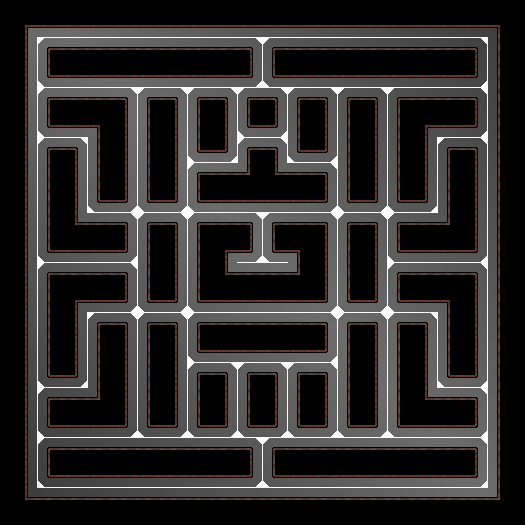
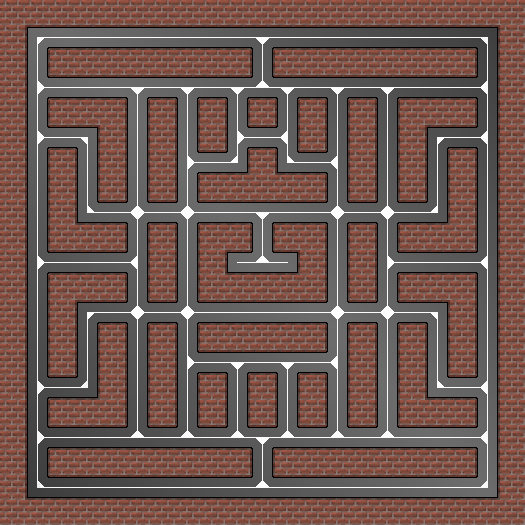
Implementacion completa del menu inicio

diff --git a/src/GUI/SeleccionTematica.java b/src/GUI/SeleccionTematica.java
@@ -41,23 +41,25 @@ public class SeleccionTematica extends JFrame {
 		layeredPane.setBounds(0, 0, 484, 536);
 		contentPane.add(layeredPane);
 		
-		JPanel panelControles = new JPanel();
-		panelControles.setBounds(0, 0, 484, 538);
+		JPanel panelControles = new FondoGUI("/images/GUI/jojofondoAyuda.png");
+		panelControles.setBounds(0, 0, 484, 536);
+		panelControles.setLayout(null);
+		//layeredPane.add(panelControles);
 		
 		
 		
-		
-		JPanel panelTematica = new JPanel();
-		panelTematica.setBounds(0, 0, 484, 538);
+		JPanel panelTematica = new FondoGUI("/images/GUI/jojofondoTematica.png");
+		panelTematica.setBounds(0, 0, 484, 536);
 		panelTematica.setLayout(null);
+		//layeredPane.add(panelTematica);
 		
 		JLabel lblNewLabel = new JLabel("Seleccione la tem\u00E1tica:");
 		lblNewLabel.setFont(new Font("Tahoma", Font.PLAIN, 26));
 		lblNewLabel.setBounds(45, 24, 334, 64);
 		panelTematica.add(lblNewLabel);
 		
-		JPanel panelPrincipal = new JPanel();
-		panelPrincipal.setBounds(0, 0, 484, 538);
+		JPanel panelPrincipal = new FondoGUI("/images/GUI/jojofondo.png");
+		panelPrincipal.setBounds(0, 0, 484, 536);
 		layeredPane.add(panelPrincipal);
 		panelPrincipal.setLayout(null);
 		
@@ -107,7 +109,7 @@ public class SeleccionTematica extends JFrame {
 		
 		
 		JButton btnNewButton = new JButton("Parte 2");
-		btnNewButton.setBounds(74, 140, 67, 23);
+		btnNewButton.setBounds(45, 130, 90, 45);
 		panelTematica.add(btnNewButton);
 		btnNewButton.addActionListener(new ActionListener() {
 			public void actionPerformed(ActionEvent e) {
@@ -121,7 +123,7 @@ public class SeleccionTematica extends JFrame {
 		});
 		
 		JButton btnNewButton_2 = new JButton("Parte 5");
-		btnNewButton_2.setBounds(74, 422, 67, 23);
+		btnNewButton_2.setBounds(45, 411, 90, 45);
 		panelTematica.add(btnNewButton_2);
 		btnNewButton_2.addActionListener(new ActionListener() {
 			public void actionPerformed(ActionEvent e) {
@@ -135,7 +137,7 @@ public class SeleccionTematica extends JFrame {
 		});
 		
 		JButton btnNewButton_1 = new JButton("Parte 3");
-		btnNewButton_1.setBounds(74, 281, 67, 23);
+		btnNewButton_1.setBounds(45, 270, 90, 45);
 		panelTematica.add(btnNewButton_1);
 		btnNewButton_1.addActionListener(new ActionListener() {
 			public void actionPerformed(ActionEvent e) {
@@ -149,6 +151,8 @@ public class SeleccionTematica extends JFrame {
 		});
 		
 		JButton btnNewButton_3 = new JButton("Volver");
+		btnNewButton_3.setFont(new Font("Tahoma", Font.PLAIN, 14));
+		btnNewButton_3.setBounds(192, 482, 100, 25);
 		btnNewButton_3.addActionListener(new ActionListener() {
 			public void actionPerformed(ActionEvent e) {
 				layeredPane.removeAll();
@@ -160,19 +164,40 @@ public class SeleccionTematica extends JFrame {
 		panelControles.add(btnNewButton_3);
 		
 		JLabel lblNivel5 = new JLabel("hola");
-		lblNivel5.setBounds(278, 368, 130, 130);
+		lblNivel5.setBounds(333, 368, 130, 130);
 		fondo = new ImageIcon(new ImageIcon(Toolkit.getDefaultToolkit().getImage(SeleccionTematica.class.getResource("/images/nivel_1/nivel1Parte5.png"))).getImage().getScaledInstance(130,130,Image.SCALE_DEFAULT) );
+		lblNivel5.setIcon(fondo);
 		panelTematica.add(lblNivel5);
 		
 		JLabel lblNivel2 = new JLabel("hola2");
-		lblNivel2.setBounds(278, 86, 130, 130);
+		lblNivel2.setBounds(333, 86, 130, 130);
 		fondo = new ImageIcon(new ImageIcon(Toolkit.getDefaultToolkit().getImage(SeleccionTematica.class.getResource("/images/nivel_1/nivel1Parte2.png"))).getImage().getScaledInstance(130,130,Image.SCALE_DEFAULT) );
+		lblNivel2.setIcon(fondo);
 		panelTematica.add(lblNivel2);
 		
 		JLabel lblNivel3 = new JLabel("hola2");
 		fondo = new ImageIcon(new ImageIcon(Toolkit.getDefaultToolkit().getImage(SeleccionTematica.class.getResource("/images/nivel_1/nivel1Parte3.png"))).getImage().getScaledInstance(130,130,Image.SCALE_DEFAULT) );
-		lblNivel3.setBounds(278, 227, 130, 130);
+		lblNivel3.setIcon(fondo);
+		lblNivel3.setBounds(333, 227, 130, 130);
 		panelTematica.add(lblNivel3);
+		
+		JLabel personajesParte2 = new JLabel("New label");
+		fondo = new ImageIcon(new ImageIcon(Toolkit.getDefaultToolkit().getImage(SeleccionTematica.class.getResource("/images/GUI/personajesParte2.png"))).getImage().getScaledInstance(130,130,Image.SCALE_DEFAULT) );
+		personajesParte2.setIcon(fondo);
+		personajesParte2.setBounds(176, 86, 130, 130);
+		panelTematica.add(personajesParte2);
+		
+		JLabel personajesParte3 = new JLabel("New label");
+		fondo = new ImageIcon(new ImageIcon(Toolkit.getDefaultToolkit().getImage(SeleccionTematica.class.getResource("/images/GUI/personajesParte3.png"))).getImage().getScaledInstance(130,130,Image.SCALE_DEFAULT) );
+		personajesParte3.setIcon(fondo);
+		personajesParte3.setBounds(176, 227, 130, 130);
+		panelTematica.add(personajesParte3);
+		
+		JLabel personajesParte5 = new JLabel("New label");
+		fondo = new ImageIcon(new ImageIcon(Toolkit.getDefaultToolkit().getImage(SeleccionTematica.class.getResource("/images/GUI/personajesParte5.png"))).getImage().getScaledInstance(130,130,Image.SCALE_DEFAULT) );
+		personajesParte5.setIcon(fondo);
+		personajesParte5.setBounds(176, 368, 130, 130);
+		panelTematica.add(personajesParte5);
 		
 		
 		

diff --git a/src/GUI/GUI.java b/src/GUI/GUI.java
@@ -34,7 +34,7 @@ public class GUI extends JFrame {
 	public GUI(Logica logica,String pathMusical) {
 		setDefaultCloseOperation(JFrame.EXIT_ON_CLOSE);
 		setBounds(100, 100, 656, 564);
-		contentPane = new JPanel();
+		contentPane = new FondoJuego("/images/GUI/fondoJuego.png");
 		contentPane.setBackground(Color.BLACK);
 		contentPane.setBorder(new EmptyBorder(5, 5, 5, 5));
 		setContentPane(contentPane);
@@ -50,36 +50,36 @@ public class GUI extends JFrame {
 		JLabel lblPuntaje = new JLabel("Puntaje:");
 		lblPuntaje.setFont(new Font("Tahoma", Font.BOLD, 14));
 		lblPuntaje.setHorizontalAlignment(SwingConstants.CENTER);
-		lblPuntaje.setForeground(Color.WHITE);
+		lblPuntaje.setForeground(Color.BLACK);
 		lblPuntaje.setBounds(535, 29, 79, 14);
 		contentPane.add(lblPuntaje);
 		
 		lblPuntajeNumero = new JLabel("0");
 		lblPuntajeNumero.setFont(new Font("Tahoma", Font.BOLD, 14));
 		lblPuntajeNumero.setHorizontalAlignment(SwingConstants.TRAILING);
-		lblPuntajeNumero.setForeground(Color.WHITE);
+		lblPuntajeNumero.setForeground(Color.BLACK);
 		lblPuntajeNumero.setBounds(568, 54, 46, 14);
 		contentPane.add(lblPuntajeNumero);
 		
 		JLabel lblVidas = new JLabel("Vidas:");
 		lblVidas.setHorizontalAlignment(SwingConstants.CENTER);
 		lblVidas.setFont(new Font("Tahoma", Font.BOLD, 14));
-		lblVidas.setForeground(Color.WHITE);
+		lblVidas.setForeground(Color.BLACK);
 		lblVidas.setBounds(535, 106, 79, 14);
 		contentPane.add(lblVidas);
 		
 		lblVidasNumero = new JLabel("0");
 		lblVidasNumero.setHorizontalAlignment(SwingConstants.TRAILING);
 		lblVidasNumero.setFont(new Font("Tahoma", Font.BOLD, 14));
-		lblVidasNumero.setForeground(Color.WHITE);
+		lblVidasNumero.setForeground(Color.BLACK);
 		lblVidasNumero.setBounds(568, 135, 46, 14);
 		contentPane.add(lblVidasNumero);
 		
 		lblPausa = new JLabel("");
 		lblPausa.setHorizontalAlignment(SwingConstants.TRAILING);
 		lblPausa.setFont(new Font("Tahoma", Font.BOLD, 14));
-		lblPausa.setForeground(Color.WHITE);
-		lblPausa.setBounds(540, 250, 80, 100);
+		lblPausa.setForeground(Color.BLACK);
+		lblPausa.setBounds(550, 250, 80, 100);
 		contentPane.add(lblPausa);
 		
 		File archivo = new File(pathMusical);

diff --git a/src/GUI/FondoJuego.java b/src/GUI/FondoJuego.java
@@ -1,0 +1,31 @@
+package GUI;
+
+import java.awt.Graphics;
+import java.awt.Image;
+
+import javax.swing.ImageIcon;
+import javax.swing.JPanel;
+
+public class FondoJuego extends JPanel {
+	/**
+	 * 
+	 */
+	private static final long serialVersionUID = 1L;
+	private Image fondo;
+	private String direccion;
+	
+	public FondoJuego(String direccion) {
+		this.direccion = direccion;
+	}
+	
+	public void paint(Graphics g) {
+		fondo = new ImageIcon(GUI.class.getResource(direccion)).getImage();
+		g.drawImage(fondo, -16, 0, 656, 564, this); 
+		setOpaque(false);
+		super.paint(g);
+	}
+	
+	public void setFondo(String direccion) {
+		this.direccion = direccion;
+	}
+}

diff --git a/src/GUI/FondoGUI.java b/src/GUI/FondoGUI.java
@@ -1,0 +1,31 @@
+package GUI;
+
+import java.awt.Graphics;
+import java.awt.Image;
+
+import javax.swing.ImageIcon;
+import javax.swing.JPanel;
+
+public class FondoGUI extends JPanel {
+	/**
+	 * 
+	 */
+	private static final long serialVersionUID = 1L;
+	private Image fondo;
+	private String direccion;
+	
+	public FondoGUI(String direccion) {
+		this.direccion = direccion;
+	}
+	
+	public void paint(Graphics g) {
+		fondo = new ImageIcon(GUI.class.getResource(direccion)).getImage();
+		g.drawImage(fondo, 0, 0, 484, 536, this);
+		setOpaque(false);
+		super.paint(g);
+	}
+	
+	public void setFondo(String direccion) {
+		this.direccion = direccion;
+	}
+}

diff --git a/src/Entidades/Inmunidad.java b/src/Entidades/Inmunidad.java
@@ -6,7 +6,7 @@ import Logica.Logica;
 public class Inmunidad extends Pocion {
 	
 	public Inmunidad(int posY, int posX, Logica juegoActual,String[] img) {
-		pos = new Posicion( posX+((25-19)/2), posY+((25-22)/2), 19, 22); 
+		pos = new Posicion( posX+((25-19)/2), posY+((25-22)/2), 19, 21); 
 		entGrafica = new EntidadGrafica(0, pos,img);
 		juego = juegoActual;
 		duracion = 5000;
